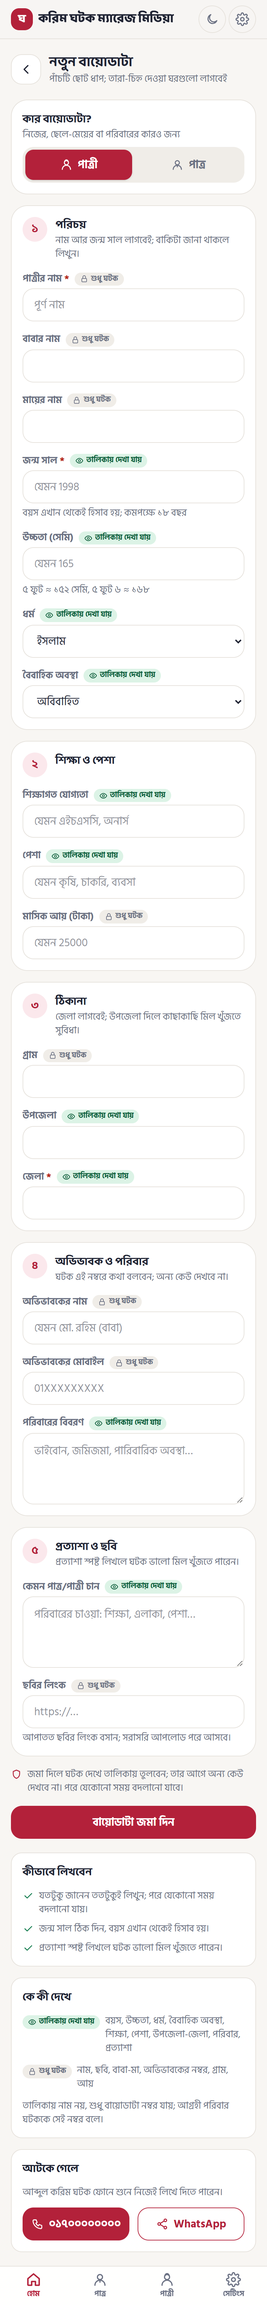
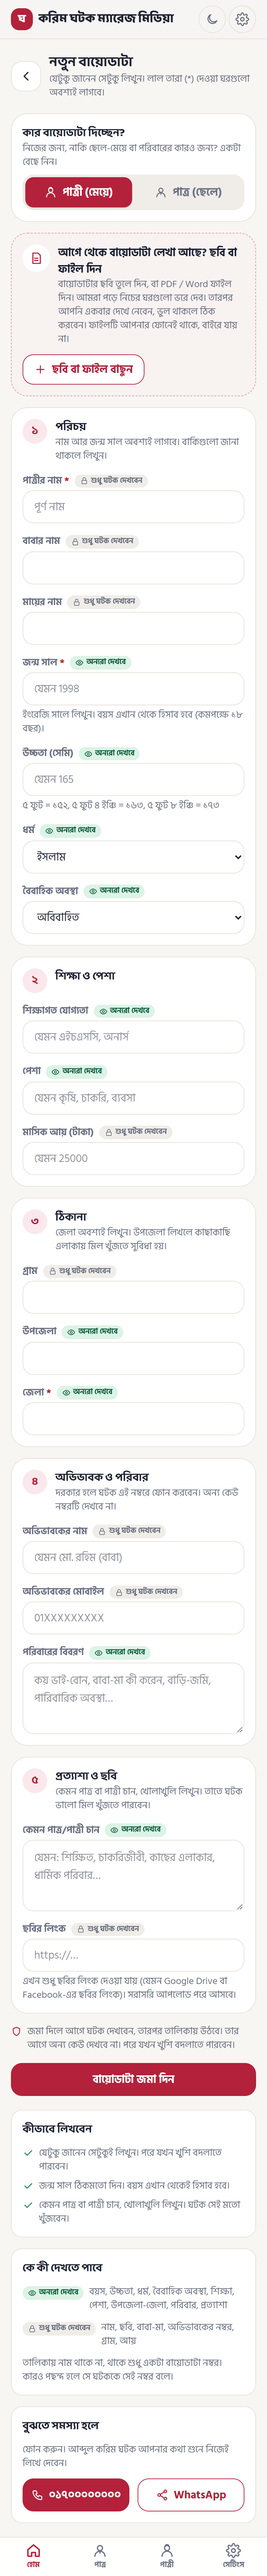
copy: plain, spoken Bangla on the biodata form
Short sentences a village family reads at a glance: the page lead, the patro/patri switch ("পাত্রী (মেয়ে)" /
"পাত্র (ছেলে)"), the file-import card and its progress and error lines, every section hint and placeholder, the
chips ("অন্যরা দেখবে" / "শুধু ঘটক দেখবেন"), the submit note, and the three side cards. Screenshots refreshed
(the previous commit's set had not been, the dev server was down).

diff --git a/components/profile-form.tsx b/components/profile-form.tsx
@@ -23,9 +23,9 @@ const ACTIONS = {
 /** Beside a field's label on the family's form: whether other families get to see it. */
 function Seen({ by }: { by: "all" | "ghotok" }) {
   return by === "all" ? (
-    <span className="inline-flex items-center gap-1 rounded-full bg-mint px-2 py-0.5 text-[11px] font-bold text-mint-ink"><Icon name="eye" size={12} />তালিকায় দেখা যায়</span>
+    <span className="inline-flex items-center gap-1 rounded-full bg-mint px-2 py-0.5 text-[11px] font-bold text-mint-ink"><Icon name="eye" size={12} />অন্যরা দেখবে</span>
   ) : (
-    <span className="inline-flex items-center gap-1 rounded-full bg-sunk px-2 py-0.5 text-[11px] font-bold text-muted"><Icon name="lock" size={12} />শুধু ঘটক</span>
+    <span className="inline-flex items-center gap-1 rounded-full bg-sunk px-2 py-0.5 text-[11px] font-bold text-muted"><Icon name="lock" size={12} />শুধু ঘটক দেখবেন</span>
   );
 }
 
@@ -81,7 +81,7 @@ export function ProfileForm({ kind, profile, minYear, maxYear, viewer = "admin",
       {fileKind && fileKind !== kind ? (
         <p className="flex items-start gap-2 rounded-2xl border border-warn-line bg-warn px-4 py-3 text-sm font-semibold text-warn-ink">
           <Icon name="shield" size={18} className="mt-0.5 shrink-0" />
-          ফাইলটি {KIND_OF[fileKind]} বায়োডাটা মনে হচ্ছে, কিন্তু এই ফর্ম {KIND_OF[kind]}। ওপরে {KIND_LABEL[fileKind]} বেছে নিন, তারপর ফাইলটি আবার দিন।
+          ফাইলটি মনে হচ্ছে {KIND_OF[fileKind]} বায়োডাটা, কিন্তু আপনি {KIND_OF[kind]} ফর্মে আছেন। ওপরে {KIND_LABEL[fileKind]} বেছে নিয়ে ফাইলটি আবার দিন।
         </p>
       ) : null}
       <ActionForm key={version} action={edit ? ACTIONS[viewer].update : ACTIONS[viewer].create} submitLabel={submit} pendingLabel={family ? "জমা হচ্ছে…" : undefined}>
@@ -92,15 +92,15 @@ export function ProfileForm({ kind, profile, minYear, maxYear, viewer = "admin",
               <Hidden name="kind" value={kind} />
               {profile ? <Hidden name="id" value={profile.id} /> : null}
 
-              <Section n={1} title="পরিচয়" hint="নাম আর জন্ম সাল লাগবেই; বাকিটা জানা থাকলে লিখুন।">
+              <Section n={1} title="পরিচয়" hint="নাম আর জন্ম সাল অবশ্যই লাগবে। বাকিগুলো জানা থাকলে লিখুন।">
                 <Wide>
                   <Field name="name" label={`${KIND_OF[kind]} নাম`} required defaultValue={v.name} autoComplete="off" placeholder="পূর্ণ নাম" tag={tags("name", "ghotok")} />
                 </Wide>
                 <Field name="fatherName" label="বাবার নাম" defaultValue={v.fatherName} tag={tags("fatherName", "ghotok")} />
                 <Field name="motherName" label="মায়ের নাম" defaultValue={v.motherName} tag={tags("motherName", "ghotok")} />
                 <Field name="birthYear" label="জন্ম সাল" required type="number" inputMode="numeric" min={String(minYear)} max={String(maxYear)} placeholder="যেমন 1998" defaultValue={v.birthYear}
-                  hint={`বয়স এখান থেকেই হিসাব হয়; ${kind === "patro" ? "কমপক্ষে ২১" : "কমপক্ষে ১৮"} বছর`} tag={tags("birthYear", "all")} />
-                <Field name="heightCm" label="উচ্চতা (সেমি)" type="number" inputMode="numeric" min="100" max="250" placeholder="যেমন 165" defaultValue={v.heightCm} hint="৫ ফুট ≈ ১৫২ সেমি, ৫ ফুট ৬ ≈ ১৬৮" tag={tags("heightCm", "all")} />
+                  hint={`ইংরেজি সালে লিখুন। বয়স এখান থেকে হিসাব হবে (কমপক্ষে ${kind === "patro" ? "২১" : "১৮"} বছর)।`} tag={tags("birthYear", "all")} />
+                <Field name="heightCm" label="উচ্চতা (সেমি)" type="number" inputMode="numeric" min="100" max="250" placeholder="যেমন 165" defaultValue={v.heightCm} hint="৫ ফুট = ১৫২, ৫ ফুট ৪ ইঞ্চি = ১৬৩, ৫ ফুট ৮ ইঞ্চি = ১৭৩" tag={tags("heightCm", "all")} />
                 <Select name="religion" label="ধর্ম" options={options(RELIGION)} defaultValue={v.religion || "islam"} tag={tags("religion", "all")} />
                 <Select name="maritalStatus" label="বৈবাহিক অবস্থা" options={options(MARITAL)} defaultValue={v.maritalStatus || "obibahito"} tag={tags("maritalStatus", "all")} />
               </Section>
@@ -111,27 +111,27 @@ export function ProfileForm({ kind, profile, minYear, maxYear, viewer = "admin",
                 <Field name="monthlyIncome" label="মাসিক আয় (টাকা)" type="number" inputMode="numeric" min="0" placeholder="যেমন 25000" defaultValue={v.monthlyIncome} tag={tags("monthlyIncome", "ghotok")} />
               </Section>
 
-              <Section n={3} title="ঠিকানা" hint="জেলা লাগবেই; উপজেলা দিলে কাছাকাছি মিল খুঁজতে সুবিধা।">
+              <Section n={3} title="ঠিকানা" hint="জেলা অবশ্যই লিখুন। উপজেলা লিখলে কাছাকাছি এলাকায় মিল খুঁজতে সুবিধা হয়।">
                 <Field name="village" label="গ্রাম" defaultValue={v.village} tag={tags("village", "ghotok")} />
                 <Field name="upazila" label="উপজেলা" defaultValue={v.upazila} tag={tags("upazila", "all")} />
                 <Field name="district" label="জেলা" required defaultValue={v.district} tag={tags("district", "all")} />
               </Section>
 
-              <Section n={4} title="অভিভাবক ও পরিবার" hint={family ? "ঘটক এই নম্বরে কথা বলবেন; অন্য কেউ দেখবে না।" : undefined}>
+              <Section n={4} title="অভিভাবক ও পরিবার" hint={family ? "দরকার হলে ঘটক এই নম্বরে ফোন করবেন। অন্য কেউ নম্বরটি দেখবে না।" : undefined}>
                 <Field name="guardianName" label="অভিভাবকের নাম" placeholder="যেমন মো. রহিম (বাবা)" defaultValue={v.guardianName} tag={tags("guardianName", "ghotok")} />
                 <Field name="guardianPhone" label="অভিভাবকের মোবাইল" type="tel" inputMode="tel" placeholder="01XXXXXXXXX" defaultValue={v.guardianPhone} tag={tags("guardianPhone", "ghotok")} />
                 <Wide>
-                  <TextArea name="familyDetails" label="পরিবারের বিবরণ" placeholder="ভাইবোন, জমিজমা, পারিবারিক অবস্থা…" defaultValue={v.familyDetails} rows={v.familyDetails && v.familyDetails.length > 120 ? 6 : 3} tag={tags("familyDetails", "all")} />
+                  <TextArea name="familyDetails" label="পরিবারের বিবরণ" placeholder="কয় ভাই-বোন, বাবা-মা কী করেন, বাড়ি-জমি, পারিবারিক অবস্থা…" defaultValue={v.familyDetails} rows={v.familyDetails && v.familyDetails.length > 120 ? 6 : 3} tag={tags("familyDetails", "all")} />
                 </Wide>
               </Section>
 
-              <Section n={5} title="প্রত্যাশা ও ছবি" hint={family ? "প্রত্যাশা স্পষ্ট লিখলে ঘটক ভালো মিল খুঁজতে পারেন।" : undefined}>
+              <Section n={5} title="প্রত্যাশা ও ছবি" hint={family ? "কেমন পাত্র বা পাত্রী চান, খোলাখুলি লিখুন। তাতে ঘটক ভালো মিল খুঁজতে পারবেন।" : undefined}>
                 <Wide>
-                  <TextArea name="expectations" label="কেমন পাত্র/পাত্রী চান" placeholder="পরিবারের চাওয়া: শিক্ষা, এলাকা, পেশা…" defaultValue={v.expectations} tag={tags("expectations", "all")} />
+                  <TextArea name="expectations" label="কেমন পাত্র/পাত্রী চান" placeholder="যেমন: শিক্ষিত, চাকরিজীবী, কাছের এলাকার, ধার্মিক পরিবার…" defaultValue={v.expectations} tag={tags("expectations", "all")} />
                 </Wide>
                 <Wide>
                   <Field name="photoUrl" label="ছবির লিংক" type="url" inputMode="url" placeholder="https://…" defaultValue={v.photoUrl}
-                    hint="আপাতত ছবির লিংক বসান; সরাসরি আপলোড পরে আসবে।" tag={tags("photoUrl", "ghotok")} />
+                    hint="এখন শুধু ছবির লিংক দেওয়া যায় (যেমন Google Drive বা Facebook-এর ছবির লিংক)। সরাসরি আপলোড পরে আসবে।" tag={tags("photoUrl", "ghotok")} />
                 </Wide>
                 {family ? null : (
                   <Wide>
@@ -143,7 +143,7 @@ export function ProfileForm({ kind, profile, minYear, maxYear, viewer = "admin",
               {family ? (
                 <p className="flex items-start gap-2 text-sm text-muted">
                   <Icon name="shield" size={16} className="mt-0.5 shrink-0 text-primary" />
-                  জমা দিলে ঘটক দেখে তালিকায় তুলবেন; তার আগে অন্য কেউ দেখবে না। পরে যেকোনো সময় বদলানো যাবে।
+                  জমা দিলে আগে ঘটক দেখবেন, তারপর তালিকায় উঠবে। তার আগে অন্য কেউ দেখবে না। পরে যখন খুশি বদলাতে পারবেন।
                 </p>
               ) : null}
             </>

diff --git a/components/biodata-import.tsx b/components/biodata-import.tsx
@@ -42,7 +42,7 @@ export function BiodataImport({ ai, onResult }: { ai: boolean; onResult: (fields
           if (!result.ok) throw new Error(result.error);
           fields = result.fields;
         } else {
-          setStatus("ঘরগুলো মেলানো হচ্ছে…");
+          setStatus("তথ্য সাজানো হচ্ছে…");
           fields = parseBiodataText(text);
         }
       }
@@ -55,10 +55,10 @@ export function BiodataImport({ ai, onResult }: { ai: boolean; onResult: (fields
       const msg = e instanceof Error ? e.message : "";
       setStatus(null);
       setError(
-        msg === "unsupported" ? "ছবি (JPG/PNG), PDF বা Word (.docx) ফাইল দিন।"
-          : msg === "too_big" ? "ফাইল ১০ মেগাবাইটের বেশি; ছোট করে দিন।"
-            : msg === "empty" ? "ফাইল থেকে কোনো ঘর ভরার মতো তথ্য পাওয়া যায়নি। পরিষ্কার ছবি দিন, বা নিজে ভরুন।"
-              : msg && /[ঀ-৿]/.test(msg) ? msg : "ফাইলটি পড়া গেল না। অন্য ছবি দিন, বা ঘরগুলো নিজে ভরুন।",
+        msg === "unsupported" ? "শুধু ছবি (JPG/PNG), PDF বা Word (.docx) ফাইল দেওয়া যায়।"
+          : msg === "too_big" ? "ফাইলটি বড় বেশি (১০ মেগাবাইটের বেশি)। ছোট করে আবার দিন।"
+            : msg === "empty" ? "ফাইলটি থেকে কিছু পড়া গেল না। আরও পরিষ্কার ছবি দিন, বা ঘরগুলো নিজেই লিখুন।"
+              : msg && /[ঀ-৿]/.test(msg) ? msg : "ফাইলটি পড়া গেল না। অন্য ছবি দিন, বা ঘরগুলো নিজেই লিখুন।",
       );
     } finally {
       setBusy(false);
@@ -71,10 +71,10 @@ export function BiodataImport({ ai, onResult }: { ai: boolean; onResult: (fields
       <div className="flex items-start gap-3">
         <span aria-hidden className="grid size-10 shrink-0 place-items-center rounded-full bg-surface text-primary"><Icon name="note" size={20} /></span>
         <div className="min-w-0 flex-1">
-          <p className="font-bold">আগের বায়োডাটা আছে? ফাইল থেকে ভরুন</p>
+          <p className="font-bold">আগে থেকে বায়োডাটা লেখা আছে? ছবি বা ফাইল দিন</p>
           <p className="text-sm text-muted">
-            ছবি, PDF বা Word ফাইল দিন; ঘরগুলো নিজে থেকে ভরে যাবে, আপনি মিলিয়ে নেবেন।{" "}
-            {ai ? "ফাইলটি পড়ার জন্য AI-তে পাঠানো হয়, রাখা হয় না।" : "সবকিছু আপনার ফোনেই হয়, ফাইল কোথাও যায় না।"}
+            বায়োডাটার ছবি তুলে দিন, বা PDF / Word ফাইল দিন। আমরা পড়ে নিচের ঘরগুলো ভরে দেব। তারপর আপনি একবার দেখে নেবেন, ভুল থাকলে ঠিক করবেন।{" "}
+            {ai ? "ফাইলটি পড়ার জন্য সার্ভারে পাঠানো হয়, পড়ার পর রাখা হয় না।" : "ফাইলটি আপনার ফোনেই থাকে, বাইরে যায় না।"}
           </p>
         </div>
       </div>
@@ -83,10 +83,10 @@ export function BiodataImport({ ai, onResult }: { ai: boolean; onResult: (fields
       <div className="flex flex-wrap items-center gap-3">
         <button type="button" disabled={busy} onClick={() => input.current?.click()}
           className="inline-flex min-h-11 items-center justify-center gap-2 rounded-2xl border border-primary bg-surface px-4 font-bold text-primary disabled:opacity-60">
-          <Icon name={busy ? "sparkle" : "plus"} size={18} />{busy ? "পড়া হচ্ছে…" : "ছবি / PDF / Word বাছুন"}
+          <Icon name={busy ? "sparkle" : "plus"} size={18} />{busy ? "পড়া হচ্ছে…" : "ছবি বা ফাইল বাছুন"}
         </button>
         {status ? <p role="status" className="text-sm text-muted">{status}</p> : null}
-        {done ? <p role="status" className="flex items-center gap-1.5 text-sm font-semibold text-pos"><Icon name="check" size={16} />{bn(done)}টি ঘর ভরা হয়েছে; নিচে মিলিয়ে নিন</p> : null}
+        {done ? <p role="status" className="flex items-center gap-1.5 text-sm font-semibold text-pos"><Icon name="check" size={16} />{bn(done)}টি ঘর ভরে দেওয়া হয়েছে। নিচে একবার দেখে নিন।</p> : null}
       </div>
       {error ? <p role="alert" className="rounded-2xl bg-neg-soft px-4 py-3 text-sm font-semibold text-neg">{error}</p> : null}
     </div>

diff --git a/components/biodata.tsx b/components/biodata.tsx
@@ -10,9 +10,9 @@ import type { PublicSite } from "@/lib/services/site";
 import { ageFromYear } from "@/lib/time";
 
 const TIPS = [
-  "যতটুকু জানেন ততটুকুই লিখুন; পরে যেকোনো সময় বদলানো যায়।",
-  "জন্ম সাল ঠিক দিন, বয়স এখান থেকেই হিসাব হয়।",
-  "প্রত্যাশা স্পষ্ট লিখলে ঘটক ভালো মিল খুঁজতে পারেন।",
+  "যেটুকু জানেন সেটুকুই লিখুন। পরে যখন খুশি বদলাতে পারবেন।",
+  "জন্ম সাল ঠিকমতো দিন। বয়স এখান থেকেই হিসাব হবে।",
+  "কেমন পাত্র বা পাত্রী চান, খোলাখুলি লিখুন। ঘটক সেই মতো খুঁজবেন।",
 ];
 
 /** Beside the family's biodata form on a wide screen: how to fill it in, who sees what, and the ghotok to call. */
@@ -26,20 +26,20 @@ export function BiodataFormAside({ site }: { site: PublicSite | null }) {
           ))}
         </ul>
       </Card>
-      <Card title="কে কী দেখে">
+      <Card title="কে কী দেখতে পাবে">
         <p className="flex items-start gap-2 text-sm">
-          <span className="mt-0.5 inline-flex shrink-0 items-center gap-1 rounded-full bg-mint px-2 py-0.5 text-[11px] font-bold text-mint-ink"><Icon name="eye" size={12} />তালিকায় দেখা যায়</span>
+          <span className="mt-0.5 inline-flex shrink-0 items-center gap-1 rounded-full bg-mint px-2 py-0.5 text-[11px] font-bold text-mint-ink"><Icon name="eye" size={12} />অন্যরা দেখবে</span>
           <span className="text-muted">বয়স, উচ্চতা, ধর্ম, বৈবাহিক অবস্থা, শিক্ষা, পেশা, উপজেলা-জেলা, পরিবার, প্রত্যাশা</span>
         </p>
         <p className="flex items-start gap-2 text-sm">
-          <span className="mt-0.5 inline-flex shrink-0 items-center gap-1 rounded-full bg-sunk px-2 py-0.5 text-[11px] font-bold text-muted"><Icon name="lock" size={12} />শুধু ঘটক</span>
+          <span className="mt-0.5 inline-flex shrink-0 items-center gap-1 rounded-full bg-sunk px-2 py-0.5 text-[11px] font-bold text-muted"><Icon name="lock" size={12} />শুধু ঘটক দেখবেন</span>
           <span className="text-muted">নাম, ছবি, বাবা-মা, অভিভাবকের নম্বর, গ্রাম, আয়</span>
         </p>
-        <p className="text-sm text-muted">তালিকায় নাম নয়, শুধু বায়োডাটা নম্বর যায়; আগ্রহী পরিবার ঘটককে সেই নম্বর বলে।</p>
+        <p className="text-sm text-muted">তালিকায় নাম থাকে না, থাকে শুধু একটা বায়োডাটা নম্বর। কারও পছন্দ হলে সে ঘটককে সেই নম্বর বলে।</p>
       </Card>
       {site ? (
-        <Card title="আটকে গেলে">
-          <p className="text-sm text-muted">{site.ghotokName} ফোনে শুনে নিজেই লিখে দিতে পারেন।</p>
+        <Card title="বুঝতে সমস্যা হলে">
+          <p className="text-sm text-muted">ফোন করুন। {site.ghotokName} আপনার কথা শুনে নিজেই লিখে দেবেন।</p>
           <ContactButtons phone={site.phone} whatsapp={site.whatsapp} />
         </Card>
       ) : null}

diff --git a/app/(app)/(customer)/me/biodata/new/page.tsx b/app/(app)/(customer)/me/biodata/new/page.tsx
@@ -6,13 +6,14 @@ import { ProfileForm } from "@/components/profile-form";
 import { PageHeader } from "@/components/ui";
 import { requireCustomer } from "@/lib/auth/session";
 import { aiAvailable } from "@/lib/biodata-import/ai";
-import { KIND_LABEL } from "@/lib/bn";
 import { getDb } from "@/lib/db";
 import { MIN_AGE } from "@/lib/services/profiles";
 import { publicSite } from "@/lib/services/site";
 import { currentYear } from "@/lib/time";
 
 export const metadata: Metadata = { title: "নতুন বায়োডাটা" };
+
+const KIND_WORD = { patri: "পাত্রী (মেয়ে)", patro: "পাত্র (ছেলে)" } as const;
 
 /** A family writes a biodata. Who it is for comes from ?kind=; the switch at the top changes it. */
 export default async function NewBiodataPage(props: PageProps<"/me/biodata/new">) {
@@ -22,19 +23,19 @@ export default async function NewBiodataPage(props: PageProps<"/me/biodata/new">
   const year = currentYear();
   return (
     <>
-      <PageHeader title="নতুন বায়োডাটা" back="/me" sub="পাঁচটি ছোট ধাপ; তারা-চিহ্ন দেওয়া ঘরগুলো লাগবেই" />
+      <PageHeader title="নতুন বায়োডাটা" back="/me" sub="যেটুকু জানেন সেটুকু লিখুন। লাল তারা (*) দেওয়া ঘরগুলো অবশ্যই লাগবে।" />
       <div className="flex flex-col gap-5 lg:grid lg:grid-cols-[minmax(0,1fr)_20rem] lg:items-start lg:gap-8">
         <div className="flex flex-col gap-4">
           <div className="flex flex-col gap-2 rounded-3xl border border-line bg-surface p-4 sm:flex-row sm:items-center sm:justify-between lg:p-5">
             <div>
-              <p className="font-display text-base font-bold">কার বায়োডাটা?</p>
-              <p className="text-sm text-muted">নিজের, ছেলে-মেয়ের বা পরিবারের কারও জন্য</p>
+              <p className="font-display text-base font-bold">কার বায়োডাটা দিচ্ছেন?</p>
+              <p className="text-sm text-muted">নিজের জন্য, নাকি ছেলে-মেয়ে বা পরিবারের কারও জন্য? একটা বেছে নিন।</p>
             </div>
-            <div role="radiogroup" aria-label="কার বায়োডাটা" className="grid grid-cols-2 gap-1 rounded-2xl bg-sunk p-1 sm:w-72">
+            <div role="radiogroup" aria-label="কার বায়োডাটা" className="grid grid-cols-2 gap-1 rounded-2xl bg-sunk p-1 sm:w-80">
               {(["patri", "patro"] as const).map((k) => (
                 <Link key={k} href={`/me/biodata/new?kind=${k}`} role="radio" aria-checked={k === kind}
                   className={`inline-flex min-h-11 items-center justify-center gap-2 rounded-xl font-bold ${k === kind ? "bg-primary text-on-primary shadow-sm" : "text-muted hover:text-ink"}`}>
-                  <Icon name={k === "patro" ? "groom" : "bride"} size={18} />{KIND_LABEL[k]}
+                  <Icon name={k === "patro" ? "groom" : "bride"} size={18} />{KIND_WORD[k]}
                 </Link>
               ))}
             </div>

diff --git a/lib/biodata-import/extract.ts b/lib/biodata-import/extract.ts
@@ -59,12 +59,12 @@ export async function extractText(file: File, onProgress: Progress): Promise<str
 
 /** Bangla and English OCR in the browser. The language data comes from Tesseract.js's CDN on first use. */
 async function ocr(images: Blob[], onProgress: Progress): Promise<string> {
-  onProgress("ছবি পড়ার যন্ত্র নামছে… (প্রথমবার একটু সময় লাগে)");
+  onProgress("ছবি পড়ার জন্য তৈরি হচ্ছে… প্রথমবার একটু সময় লাগে");
   const { createWorker } = await import("tesseract.js");
   const worker = await createWorker(["ben", "eng"], 1, {
     logger: (m) => {
-      if (m.status === "recognizing text") onProgress(`লেখা পড়া হচ্ছে… ${Math.round(m.progress * 100)}%`);
-      else if (/loading|initializ/.test(m.status)) onProgress("ছবি পড়ার যন্ত্র তৈরি হচ্ছে…");
+      if (m.status === "recognizing text") onProgress(`ছবির লেখা পড়া হচ্ছে… ${Math.round(m.progress * 100)}%`);
+      else if (/loading|initializ/.test(m.status)) onProgress("ছবি পড়ার জন্য তৈরি হচ্ছে…");
     },
   });
   try {

diff --git a/app/(app)/(customer)/me/biodata/[id]/edit/page.tsx b/app/(app)/(customer)/me/biodata/[id]/edit/page.tsx
@@ -20,7 +20,7 @@ export default async function EditMyBiodataPage(props: PageProps<"/me/biodata/[i
   const year = currentYear();
   return (
     <>
-      <PageHeader title={p.name} back={`/me/biodata/${p.id}`} sub="বদলে জমা দিলে ঘটক আবার দেখে তালিকায় তুলবেন" />
+      <PageHeader title={p.name} back={`/me/biodata/${p.id}`} sub="যা বদলাতে চান বদলে জমা দিন। ঘটক আবার দেখে নেবেন, তারপর তালিকায় উঠবে।" />
       <div className="flex flex-col gap-5 lg:grid lg:grid-cols-[minmax(0,1fr)_20rem] lg:items-start lg:gap-8">
         <ProfileForm kind={p.kind} profile={p} minYear={year - 100} maxYear={year - MIN_AGE[p.kind]} viewer="customer" />
         <BiodataFormAside site={site} />
